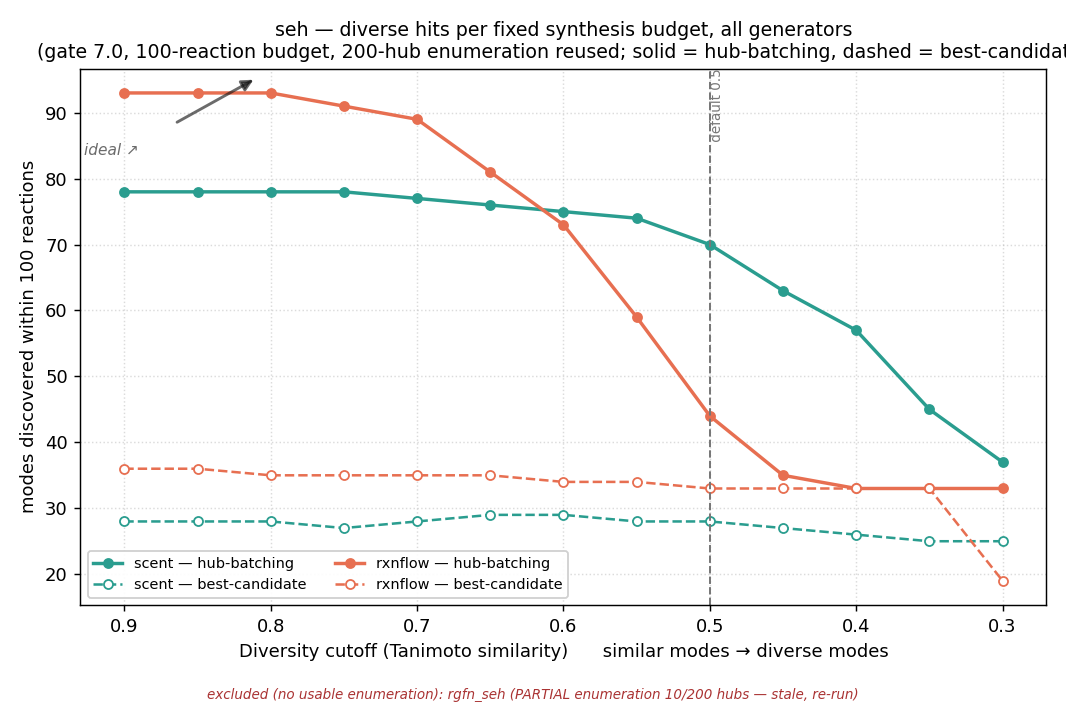
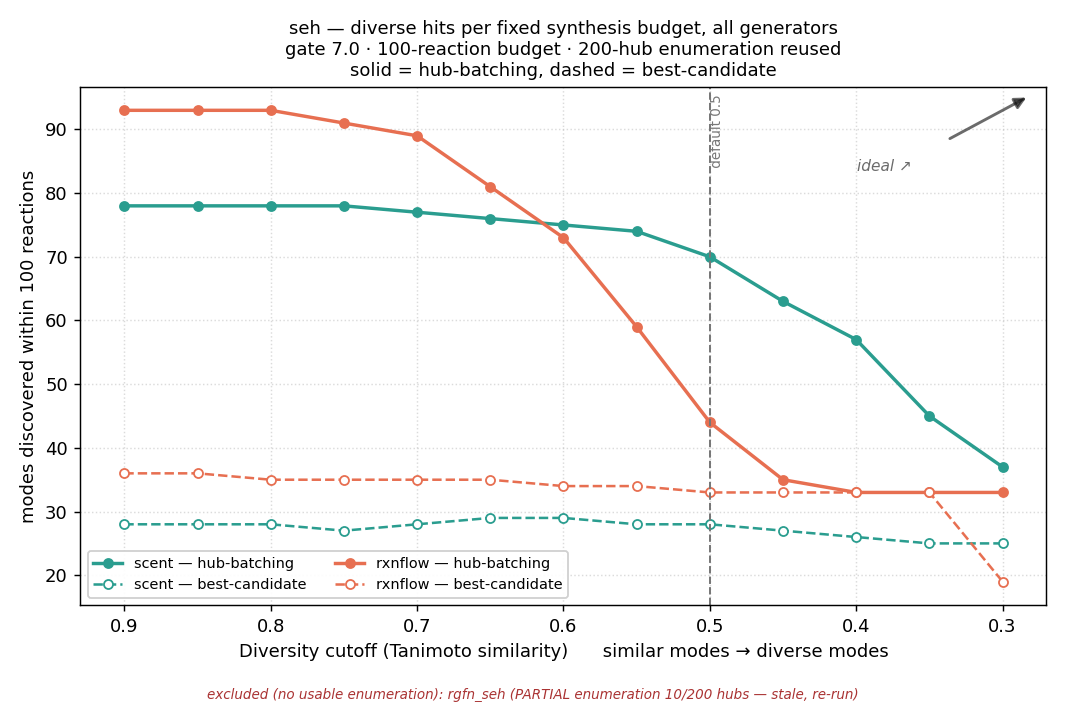
Ideal-direction arrows on every figure + cross-generator diversity Pareto panel
New validation/lsdflow/plot_style.ideal_arrow stamps which way is good. Our
panels deliberately invert axes (diversity sweeps run 0.9->0.3 so "more
diverse" reads rightward; fixed_modes inverts y so "cheaper" is up), which
makes the good direction genuinely unreadable to a first-time viewer. Direction
is SCREEN-space, not data-space, precisely so an inverted axis is stated
correctly. Verified all 8 directions x 5 anchors render inside the axes;
horizontal arrows drop their label below the shaft rather than through it.

Applied to: the count-once curve (up-left: more modes, fewer reactions),
per-cell compute-time bars (left: less compute), gate_curve (up = more modes,
down = cheaper), strategy_compute_summary (down on both panels).

New tau_curve_all_generators.py answers "is the Pareto shape a property of
hub-batching or of SCENT?" -- it redraws the canonical diversity-vs-modes panel
with EVERY generator that has an sEH enumeration, both strategies each. Zero
new compute: re-scores existing children, loading each cell's enumeration ONCE
and looping cutoffs in-process (56 s on login for 13 cutoffs x 2 cells).

It found the trap the other agent warned about: rgfn_seh's enum_children.json
exists but holds 10 of 200 hubs from an old smoke, and plotting it would have
understated RGFN ~20x while looking healthy. So a cell is now rejected unless
its enumeration covers >=90% of its own hubs.csv, and exclusions are printed AND
[…]

diff --git a/validation/lsdflow/plot_style.py b/validation/lsdflow/plot_style.py
@@ -112,14 +112,22 @@ def ideal_arrow(
         zorder=6,
     )
     if label:
-        # Offset the text opposite the arrow so it never sits under the shaft.
+        # Offset the text opposite the arrow so it never sits under the shaft, then clamp it inside
+        # the axes. Alignment is chosen from where the label ACTUALLY lands, not from the arrow
+        # direction: anchoring at x=0.90 and aligning left pushes the text off the right edge (it
+        # clipped "ideal ↖" on the count-once curve before this).
+        ox, oy = -dx * 0.055, -dy * 0.055
+        if dy == 0.0:  # a horizontal arrow: offsetting along -x lands the text ON the shaft
+            ox, oy = -dx * 0.015, -0.075  # so drop it below instead
+        xl = min(max(x0 + ox, 0.04), 0.96)
+        yl = min(max(y0 + oy, 0.04), 0.96)
         ax.text(
-            x0 - dx * 0.055,
-            y0 - dy * 0.055,
+            xl,
+            yl,
             f"{label} {_GLYPH[direction]}",
             transform=ax.transAxes,
-            ha="right" if dx >= 0 else "left",
-            va="top" if dy >= 0 else "bottom",
+            ha="right" if xl > 0.5 else "left",
+            va="top" if yl > 0.5 else "bottom",
             fontsize=fontsize,
             color=color,
             alpha=alpha,
